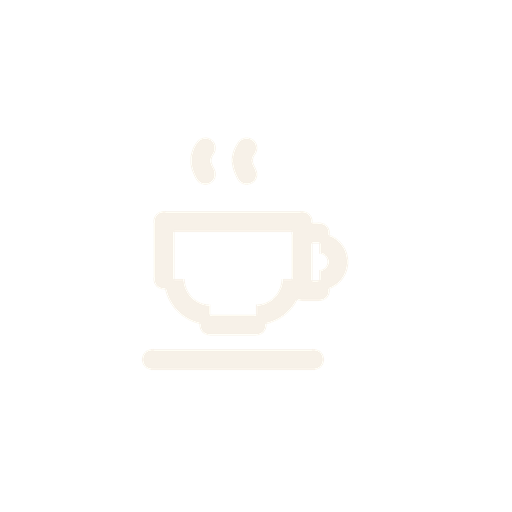
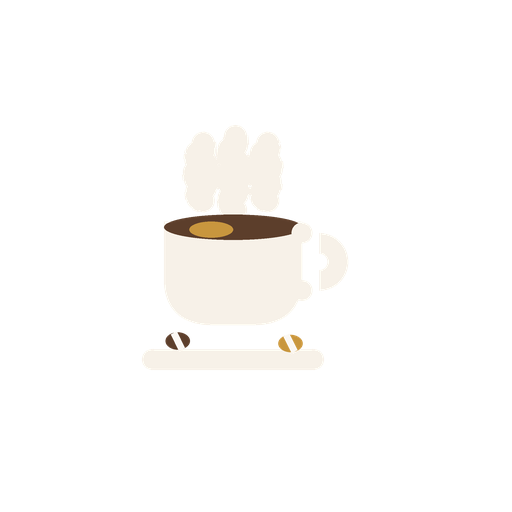
feat(mobile): persisted light/dark/contrast theme picker; splash + launcher art v2 (filled cup, steam, beans)

Changed region(s): [[0.3125, 0.4062, 0.5938, 0.4688], [0.3125, 0.625, 0.375, 0.6875], [0.5312, 0.6562, 0.5938, 0.6875]]

diff --git a/mobile/app/(tabs)/more.tsx b/mobile/app/(tabs)/more.tsx
@@ -6,13 +6,14 @@
  * and CA never see — or tap — cards that would bounce them elsewhere. Design:
  * 2-column tiles with the module icon, the way the web sidebar reads.
  */
-import { View, Text, ScrollView, StyleSheet, TouchableOpacity, Switch } from "react-native";
+import { View, Text, ScrollView, StyleSheet, TouchableOpacity } from "react-native";
 import { useState } from "react";
 import { useRouter } from "expo-router";
 import Ionicons from "@expo/vector-icons/Ionicons";
 
 import { useAuth } from "../_layout";
 import type { ThemeColors } from "../../lib/theme";
+import type { ThemeMode } from "../../lib/theme";
 
 type Tile = {
   label: string;
@@ -23,14 +24,14 @@ type Tile = {
 };
 
 export default function MoreScreen() {
-  const { theme, setThemeMode, signOut, user } = useAuth();
+  const { theme, themeMode, setThemeMode, signOut, user } = useAuth();
   const router = useRouter();
-  const [dark, setDark] = useState(false);
 
-  function toggleTheme(value: boolean) {
-    setDark(value);
-    setThemeMode(value ? "dark" : "light");
-  }
+  const MODES: Array<{ value: ThemeMode; label: string }> = [
+    { value: "light", label: "Light" },
+    { value: "dark", label: "Dark" },
+    { value: "contrast", label: "Contrast" },
+  ];
 
   async function handleSignOut() {
     await signOut();
@@ -79,11 +80,25 @@ export default function MoreScreen() {
         <View style={[styles.row, { borderBottomColor: theme.line }]}>
           <View style={{ flexDirection: "row", alignItems: "center", gap: 10 }}>
             <View style={[styles.tileIcon, { backgroundColor: theme.surface2 }]}>
-              <Ionicons name="moon" size={18} color={theme.ink} />
+              <Ionicons name="contrast" size={18} color={theme.ink} />
             </View>
-            <Text style={{ fontSize: 15, color: theme.ink }}>Dark theme</Text>
+            <Text style={{ fontSize: 15, color: theme.ink }}>Theme</Text>
           </View>
-          <Switch value={dark} onValueChange={toggleTheme} trackColor={{ true: theme.primary }} thumbColor={theme.primary} />
+          <View style={[styles.segRow, { backgroundColor: theme.surface2, borderColor: theme.line }]}>
+            {MODES.map((m) => (
+              <TouchableOpacity
+                key={m.value}
+                style={[styles.seg, themeMode === m.value && { backgroundColor: theme.primary }]}
+                onPress={() => setThemeMode(m.value)}
+              >
+                <Text
+                  style={{ fontSize: 11, fontWeight: "600", color: themeMode === m.value ? theme.onPrimary : theme.ink }}
+                >
+                  {m.label}
+                </Text>
+              </TouchableOpacity>
+            ))}
+          </View>
         </View>
       </View>
 
@@ -135,4 +150,6 @@ const styles = StyleSheet.create({
   },
   tileIcon: { width: 40, height: 40, borderRadius: 12, alignItems: "center", justifyContent: "center" },
   signOutButton: { margin: 12, padding: 14, borderRadius: 12, alignItems: "center" },
+  segRow: { flexDirection: "row", borderWidth: 1, borderRadius: 8, overflow: "hidden" },
+  seg: { paddingHorizontal: 10, paddingVertical: 6 },
 });

diff --git a/mobile/app/_layout.tsx b/mobile/app/_layout.tsx
@@ -12,6 +12,7 @@ import { Stack, Redirect, usePathname, useRouter } from "expo-router";
 
 import { api, type ApiUser } from "../lib/api";
 import { enableMobilePush } from "../lib/push";
+import { loadThemeMode, saveThemeMode } from "../lib/theme";
 import { setUnreadTotal } from "../lib/unreadStore";
 import { getColors, type ThemeColors, type ThemeMode } from "../lib/theme";
 
@@ -60,6 +61,16 @@ export default function RootLayout(): ReactElement | null {
     }
     void check();
   }, []);
+
+  // Theme choice follows the member across launches (SecureStore).
+  useEffect(() => {
+    void loadThemeMode().then((mode) => setThemeMode(mode));
+  }, []);
+
+  function applyThemeMode(mode: ThemeMode) {
+    setThemeMode(mode);
+    void saveThemeMode(mode);
+  }
 
   async function signOut() {
     // Drop the push token BEFORE the cookie dies (best effort — the server
@@ -114,7 +125,7 @@ export default function RootLayout(): ReactElement | null {
   }, [lastNotificationResponse, user, loading, router]);
 
   const auth: AuthContextType = useMemo(
-    () => ({ user, theme, themeMode, setThemeMode, signOut, setUser }),
+    () => ({ user, theme, themeMode, setThemeMode: applyThemeMode, signOut, setUser }),
     [user, theme, themeMode],
   );
 

diff --git a/mobile/lib/theme.ts b/mobile/lib/theme.ts
@@ -1,3 +1,4 @@
+import * as SecureStore from "expo-secure-store";
 /**
  * SREE DURGA HARIHARA ENTERPRISES — theme tokens.
  *
@@ -113,4 +114,26 @@ const MODES: Record<ThemeMode, ThemeColors> = {
 
 export function getColors(mode: ThemeMode): ThemeColors {
   return MODES[mode] ?? lightColors;
+}
+
+// ---- Persisted theme choice (Phase 18) ----
+// The mode follows the member across launches; web parity (light/dark/contrast).
+const THEME_KEY = "sdhhe_theme_mode";
+const VALID: ThemeMode[] = ["light", "dark", "contrast"];
+
+export async function loadThemeMode(): Promise<ThemeMode> {
+  try {
+    const stored = await SecureStore.getItemAsync(THEME_KEY);
+    return VALID.includes(stored as ThemeMode) ? (stored as ThemeMode) : "light";
+  } catch {
+    return "light";
+  }
+}
+
+export async function saveThemeMode(mode: ThemeMode): Promise<void> {
+  try {
+    await SecureStore.setItemAsync(THEME_KEY, mode);
+  } catch {
+    // Storage unavailable — theme still applies for this session.
+  }
 }
